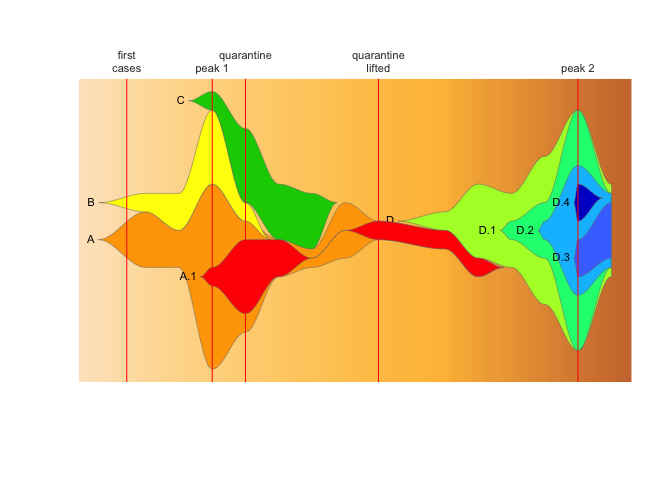
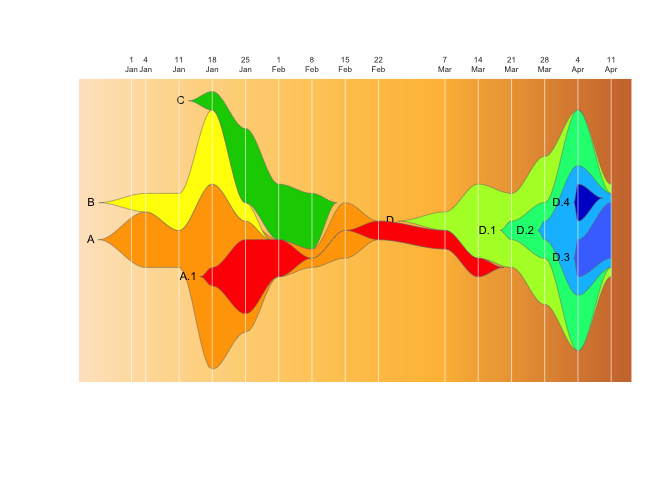
tweaks to README examples

diff --git a/README.md b/README.md
@@ -11,6 +11,20 @@ This package provides tools to use Chris Miller’s fishplot package
 (<https://github.com/chrisamiller/fishplot>) with epidemiological
 datasets, to generate fishplot epi-curves.
 
+## Why?
+
+A count matrix for a fishplot has a set of specific rules which an
+epidemiological dataset will not naturally fulfill:  
+\* cluster counts can never go completely to zero, if cases reappear
+later  
+\* if a cluster has a parent/child relationship, at every timepoint the
+parent must always have \>= the count of all it’s children.  
+\* counts should be normalised to fit the fishplot y-axis
+
+This package exists to make it easy to convert a list of samples into a
+normalised and appropriately “padded” relative count matrix that fulfils
+these requirements.
+
 ## Installation
 
 You can install epifish with:
@@ -31,9 +45,9 @@ packages
 library(fishplot); library(dplyr); library(tidyr); library(lubridate); library(epifish)
 ```
 
-Read in the tables of sample data, cluster relationships, and a custom
+Read in the table of sample data, parent-child relationships, and custom
 colour
-scheme
+scheme:
 
 ``` r
 sample_df <- read.csv("epifish/inst/extdata/samples.csv", stringsAsFactors=FALSE)
@@ -41,12 +55,12 @@ parent_df <- read.csv("epifish/inst/extdata/parents.csv", stringsAsFactors=FALSE
 colour_df <- read.csv("epifish/inst/extdata/colours.csv", stringsAsFactors=FALSE)
 ```
 
-Convert these into a fishplot-ready relative count matrix, fishplot
-object, and assorted summary data
-structures:
+Use epifish to convert this into a fishplot-ready relative count matrix,
+fishplot object, and assorted summary
+information:
 
 ``` r
-fish_list <- epifish::build_fishplot_tables(sample_df, parent_df, colour_df)
+epifish_list <- epifish::build_fishplot_tables(sample_df, parent_df=parent_df, colour_df=colour_df)
 #> Padding parent values in matrix: 
 #> adding child  D.4  to parent  D.2 
 #> adding child  D.3  to parent  D.2 
@@ -56,20 +70,64 @@ fish_list <- epifish::build_fishplot_tables(sample_df, parent_df, colour_df)
 #> The maximum sample count per timepoint (height of Y-axis) is:  15
 ```
 
-Then use the fishplot package to generate the fishplot
-image:
+Then use the fishplot package to generate a
+fishplot:
 
 ``` r
-fishplot::fishPlot(fish_list$fish, pad.left=0.1, shape="spline", vlines=fish_list$timepoints, vlab=fish_list$timepoints)
-fishplot::drawLegend(fish_list$fish, nrow=1)
+fishplot::fishPlot(epifish_list$fish, pad.left=0.1, shape="spline", vlines=epifish_list$timepoints, vlab=epifish_list$timepoints)
+fishplot::drawLegend(epifish_list$fish, nrow=1)
 ```
 
 <img src="man/figures/README-unnamed-chunk-4-1.png" width="100%" />
 
-Take a look at the underlying matrix and data summaries we generated:
+If you’re happy with the default colours, or all your clusters are
+independent, you don’t need the parent or colour dataframes:
 
 ``` r
-fish_list$timepoint_counts
+epifish_list <- epifish::build_fishplot_tables(sample_df)
+#> The maximum sample count per timepoint (height of Y-axis) is:  15
+fishplot::fishPlot(epifish_list$fish, pad.left=0.1, shape="spline", vlines=epifish_list$timepoints, vlab=epifish_list$timepoints)
+fishplot::drawLegend(epifish_list$fish, nrow=1)
+```
+
+<img src="man/figures/README-unnamed-chunk-5-1.png" width="100%" />
+
+You also can automatically collapse any clusters of a minimum size into
+a group with `min_cluster_size`:  
+*Note: this does not work with parent/child relationships if any child
+clusters are
+small\!*
+
+``` r
+epifish_list <- build_fishplot_tables(sample_df, colour_df=colour_df, min_cluster_size=10)
+#> Warning in set_fish_colours(colour_df, fishplot_names): 
+#> WARNING: existing clusters not found in colour list, setting these to white: clusters < 10
+#> Warning in set_fish_colours(colour_df, fishplot_names): 
+#> WARNING: some clusters in colour list not found in data: B, D.1, D.2, D.3, D.4
+#> The maximum sample count per timepoint (height of Y-axis) is:  15
+
+fishplot::fishPlot(epifish_list$fish, pad.left=0.1, shape="spline", 
+                   vlines=epifish_list$timepoints, vlab=epifish_list$timepoints)
+fishplot::drawLegend(epifish_list$fish, nrow=1)
+```
+
+<img src="man/figures/README-unnamed-chunk-6-1.png" width="100%" />
+
+Take a look “under the hood” at the underlying matrix and data summaries
+that epifish generates:
+
+``` r
+
+epifish_list <- epifish::build_fishplot_tables(sample_df, parent_df=parent_df, colour_df=colour_df)
+#> Padding parent values in matrix: 
+#> adding child  D.4  to parent  D.2 
+#> adding child  D.3  to parent  D.2 
+#> adding child  D.2  to parent  D.1 
+#> adding child  D.1  to parent  D 
+#> adding child  A.1  to parent  A 
+#> The maximum sample count per timepoint (height of Y-axis) is:  15
+
+epifish_list$timepoint_counts
 #> # A tibble: 34 x 3
 #> # Groups:   timepoint [14]
 #>    timepoint FPCluster     n
@@ -86,7 +144,7 @@ fish_list$timepoint_counts
 #> 10         4 A.1           4
 #> # … with 24 more rows
 
-fish_list$timepoint_sums
+epifish_list$timepoint_sums
 #> # A tibble: 14 x 2
 #>    timepoint     n
 #>        <int> <int>
@@ -105,7 +163,7 @@ fish_list$timepoint_sums
 #> 13        14    13
 #> 14        15     5
 
-fish_list$cluster_sums
+epifish_list$cluster_sums
 #> # A tibble: 9 x 2
 #>   FPCluster     n
 #>   <chr>     <int>
@@ -119,14 +177,14 @@ fish_list$cluster_sums
 #> 8 D.3           2
 #> 9 D.4           1
 
-fish_list$parents
+epifish_list$parents
 #>   A   B A.1   C   D D.1 D.2 D.3 D.4 
 #>   0   0   1   0   0   5   6   7   7
 
-fish_list$timepoint_labels
+epifish_list$timepoint_labels
 #>  [1] "1"  "2"  "3"  "4"  "5"  "6"  "7"  "8"  "10" "11" "12" "13" "14" "15"
 
-fish_list$raw_table
+epifish_list$raw_table
 #>    A B A.1 C D D.1 D.2 D.3 D.4
 #> 1  3 1   0 0 0   0   0   0   0
 #> 2  2 2   0 0 0   0   0   0   0
@@ -143,7 +201,7 @@ fish_list$raw_table
 #> 14 0 0   0 0 0   6   3   2   2
 #> 15 0 0   0 0 1   0   1   3   0
 
-fish_list$fish_table
+epifish_list$fish_table
 #>          A     B     A.1     C       D   D.1   D.2   D.3   D.4
 #> 1  19.7700  6.59  0.0000  0.00  0.0000  0.00  0.00  0.00  0.00
 #> 2  13.1800 13.18  0.0000  0.00  0.0000  0.00  0.00  0.00  0.00
@@ -160,7 +218,8 @@ fish_list$fish_table
 #> 14  0.0000  0.00  0.0000  0.00 85.6701 85.67 46.13 13.18 13.18
 #> 15  0.0000  0.00  0.0000  0.00 32.9500 26.36 26.36 19.77  0.00
 
-fish_list$fish_matrix
+#this is the final matrix used to generate the fishplot object epifishf
+epifish_list$fish_matrix
 #>           1     2     3     4       5       6       7    8   10    11
 #>  [1,] 19.77 13.18 65.90 39.54 13.1801  6.5901 19.7701 6.59 6.59  6.59
 #>  [2,]  6.59 13.18 26.36  6.59  0.0000  0.0000  0.0000 0.00 0.00  0.00
@@ -183,7 +242,7 @@ fish_list$fish_matrix
 #>  [9,]  0.00  0.00 13.1800  0.00
 ```
 
-## Input
+## Input format
 
 Example input files/templates can be found in the `inst/extdata` folder
 in this repository. The basic requirement is a data frame containing one
@@ -194,9 +253,7 @@ Optional data frames may also be provided that describe parent-child
 relationships for clusters (eg cluster A.1 evolved from cluster A), or a
 custom colour scheme.
 
-A peek at these table structures:
-
-the first few rows of sample data:
+the last few rows of sample data:
 
 <table>
 
@@ -801,29 +858,17 @@ the data structures needed to generate it, and some extra data summary
 tables.
 
 This can be used with the fishplot package’s fishPlot() function to
-generate an R plot image. If using RStudio, it is most straightforward
-to save the R plot as PDF image from the RStudio plot window (Export -\>
-“Save as PDF”).
+generate an R plot image, as shown above. If using RStudio, it is most
+straightforward to save the R plot as PDF image from the RStudio plot
+window (Export -\> “Save as PDF”).
 
 If you wish to save individual tables from the output list for any
-reason, it can be done like so:
+reason, it can be done like
+so:
 
 ``` r
-write.csv(fish_list$fish_table, "fishplot_table.csv", row.names=FALSE)
+write.csv(epifish_list$fish_table, "fishplot_table.csv", row.names=FALSE)
 ```
-
-## Why?
-
-A count matrix for a fishplot has a set of specific rules which an
-epidemiological dataset will not naturally fulfil. Namely:  
-\* cluster counts can never go completely to zero, if cases reappear
-later  
-\* if a cluster has a parent/child relationship, at every timepoint the
-parent must always have \>= the count of all it’s children.
-
-This package exists to make it easy to convert a list of samples into a
-normalised and appropriately “padded” relative count matrix that fulfils
-these requirements.
 
 ## Extras
 
@@ -834,10 +879,10 @@ CDC-defined epi weeks (to use as timepoints), and generate
 label-friendly versions of epi week dates.
 
 *NOTE: when working with dates in both R and Excel, be sure to check
-that your values match what you expect\!\!\! When using R for analysis
-it is best practice to maintain your data files in a text-based format
-like `.csv` (comma-separated-value) format rather than Excel format,
-because [Excel has many issues with how it handles
+that your values match what you expect\! When using R for analysis it is
+best practice tosave your data files in a text-based format like `.csv`
+(comma-separated-value) format rather than Excel format, because [Excel
+has many issues with how it handles
 dates](https://datacarpentry.org/spreadsheets-socialsci/03-dates-as-data/),
 and using a text-only format avoids having your dates messed up by
 Excel.*
@@ -1202,7 +1247,7 @@ Jan
 
 </table>
 
-### Use different timepoint labels
+### Use custom timepoint labels
 
 If you call `build_fishplot_tables()` with `timepoint_labels=TRUE`,
 epifish will look for a column called “timepoint\_label” to use as the
@@ -1210,9 +1255,11 @@ timepoint labels. *Note: you can only have one unique label per
 timepoint value.*
 
 ``` r
+#fill the "timepoint" column with our  newly calculated epi weeks above
+sample_df$timepoint <- sample_df$epiweek  
 
-sample_df$timepoint <- sample_df$epiweek  #fill the "timepoint" column with our  newly calculated epi weeks
-fish_list <- epifish::build_fishplot_tables(sample_df, parent_df, colour_df, timepoint_labels=TRUE)
+#tell epifish to use the "timepoint_label" column we created above
+epifish_list <- epifish::build_fishplot_tables(sample_df, parent_df, colour_df, timepoint_labels=TRUE)
 #> Padding parent values in matrix: 
 #> adding child  D.4  to parent  D.2 
 #> adding child  D.3  to parent  D.2 
@@ -1221,61 +1268,41 @@ fish_list <- epifish::build_fishplot_tables(sample_df, parent_df, colour_df, tim
 #> adding child  A.1  to parent  A 
 #> The maximum sample count per timepoint (height of Y-axis) is:  15
 
-fishplot::fishPlot(fish_list$fish, 
-                   pad.left=0.1, shape="spline", 
-                   vlines=fish_list$timepoints, 
-                   vlab=fish_list$timepoint_labels)
-fishplot::drawLegend(fish_list$fish, nrow=1)
-```
-
-<img src="man/figures/README-unnamed-chunk-11-1.png" width="100%" />
-
-### Specify timepoints and their labels manually
-
-The fishplot package provides flexibility in where to display the
-vertical lines and how what to show, which can be used to create custom
-combinations rather than using the epifish default:
-
-Say you want to add a “zero” timepoint with the first case, which starts
-on the fourth day of the first epi week:
-
-``` r
-vlines <- c((3/7), fish_list$timepoints)
-vlabs <- c("1\nJan", fish_list$timepoint_labels)
-
-fishplot::fishPlot(fish_list$fish, pad.left=0.1, shape="spline", vlines=vlines, vlab=vlabs)
+fishplot::fishPlot(epifish_list$fish, pad.left=0.1, shape="spline", vlines=epifish_list$timepoints, vlab=epifish_list$timepoint_labels)
+fishplot::drawLegend(epifish_list$fish, nrow=1)
 ```
 
 <img src="man/figures/README-unnamed-chunk-12-1.png" width="100%" />
 
-Or use completely custom labels that describe an epidemiological story,
-with red lines:
+### Specify timepoints and their labels manually
+
+The fishplot package provides flexibility in where to display the
+vertical lines and what text to show, which can be used to create custom
+combinations rather than using the epifish default:
+
+Say you want to add a “zero” timepoint with the first case, which starts
+on the fourth day of the first epi week (we’ll also make the text a bit
+smaller so it doesn’t overlap):
 
 ``` r
-vlines <- c((3/7), 3, 4, 8, 14)
-vlabs <- c("first\ncases", "peak 1", "quarantine\n", "quarantine\nlifted", "peak 2")
+vlines <- c((4/7), epifish_list$timepoints)
+vlabs <- c("1\nJan", epifish_list$timepoint_labels)
 
-fishplot::fishPlot(fish_list$fish, pad.left=0.1, shape="spline", vlines=vlines, vlab=vlabs, col.vline="red")
+fishplot::fishPlot(epifish_list$fish, pad.left=0.1, shape="spline", 
+                   vlines=vlines, vlab=vlabs, cex.vlab=0.5)
 ```
 
 <img src="man/figures/README-unnamed-chunk-13-1.png" width="100%" />
 
-### You can automatically collapse any clusters of a minimum size into a “small clusters” group:
-
-*Note: at the moment this does not combine well with parent/child
-relationships if any child clusters are small\! (A work in
-progress…)*
+Or we can use completely custom labels that describe an epidemiological
+story, with red lines:
 
 ``` r
-#skip  passing the parent_df; this will plot as if all clusters are independent
-fish_list <- build_fishplot_tables(sample_df, colour_df=colour_df, show_labels=TRUE, min_cluster_size=10)
-#> Warning in set_fish_colours(colour_df, fishplot_names): 
-#> WARNING: existing clusters not found in colour list, setting these to white: clusters < 10
-#> Warning in set_fish_colours(colour_df, fishplot_names): 
-#> WARNING: some clusters in colour list not found in data: B, D.1, D.2, D.3, D.4
-#> The maximum sample count per timepoint (height of Y-axis) is:  15
-fishplot::fishPlot(fish_list$fish, pad.left=0.1, shape="spline", vlines=fish_list$timepoints, vlab=fish_list$timepoints)
-fishplot::drawLegend(fish_list$fish, nrow=1)
+vlines <- c((4/7), 3, 4, 8, 14)
+vlabs <- c("first\ncases", "peak 1", "quarantine\n", "quarantine\nlifted", "peak 2")
+
+fishplot::fishPlot(epifish_list$fish, pad.left=0.1, shape="spline", 
+                   vlines=vlines, vlab=vlabs, col.vline="red")
 ```
 
 <img src="man/figures/README-unnamed-chunk-14-1.png" width="100%" />
